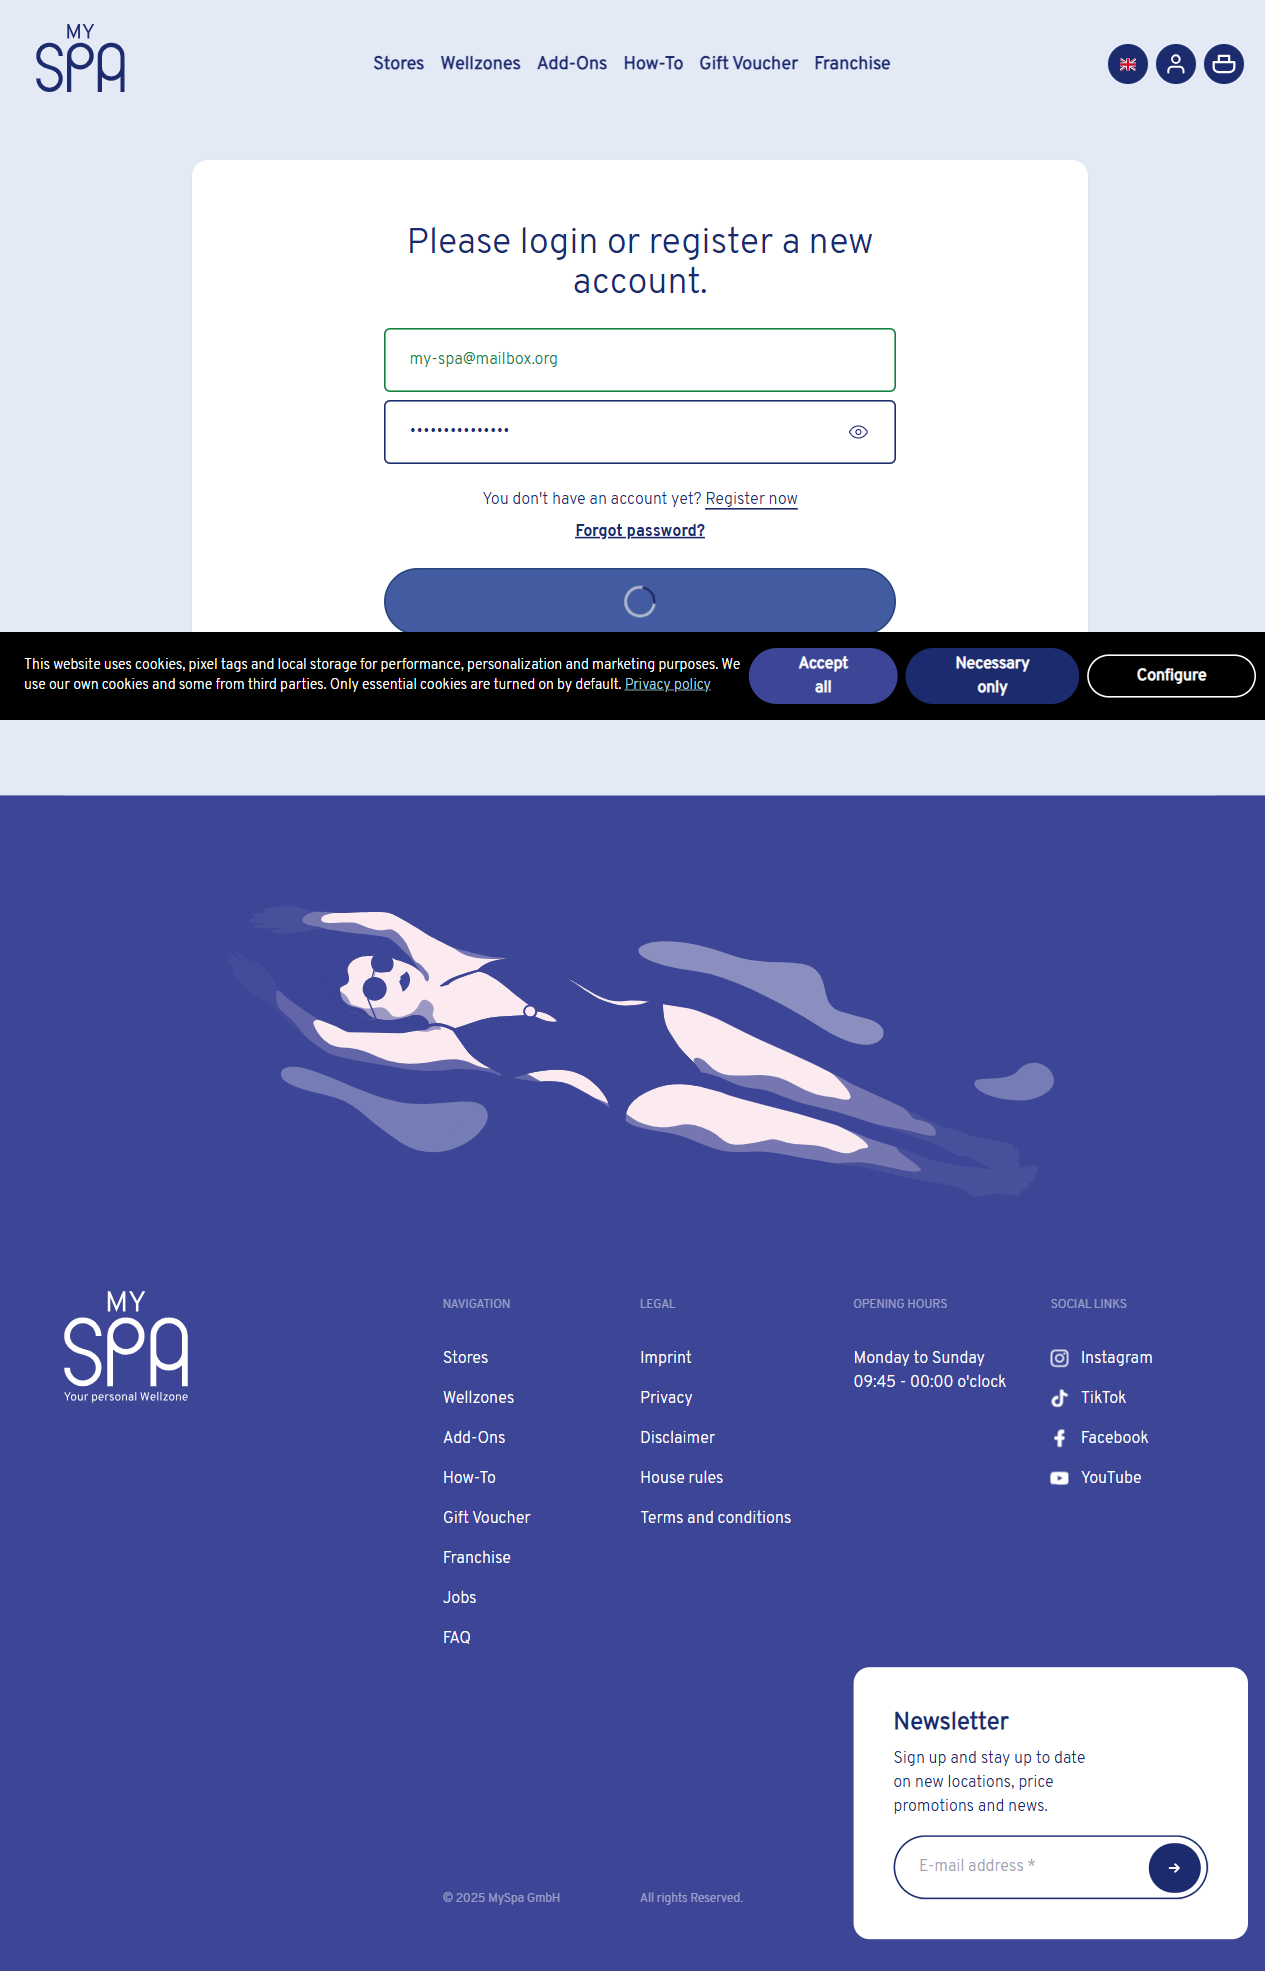
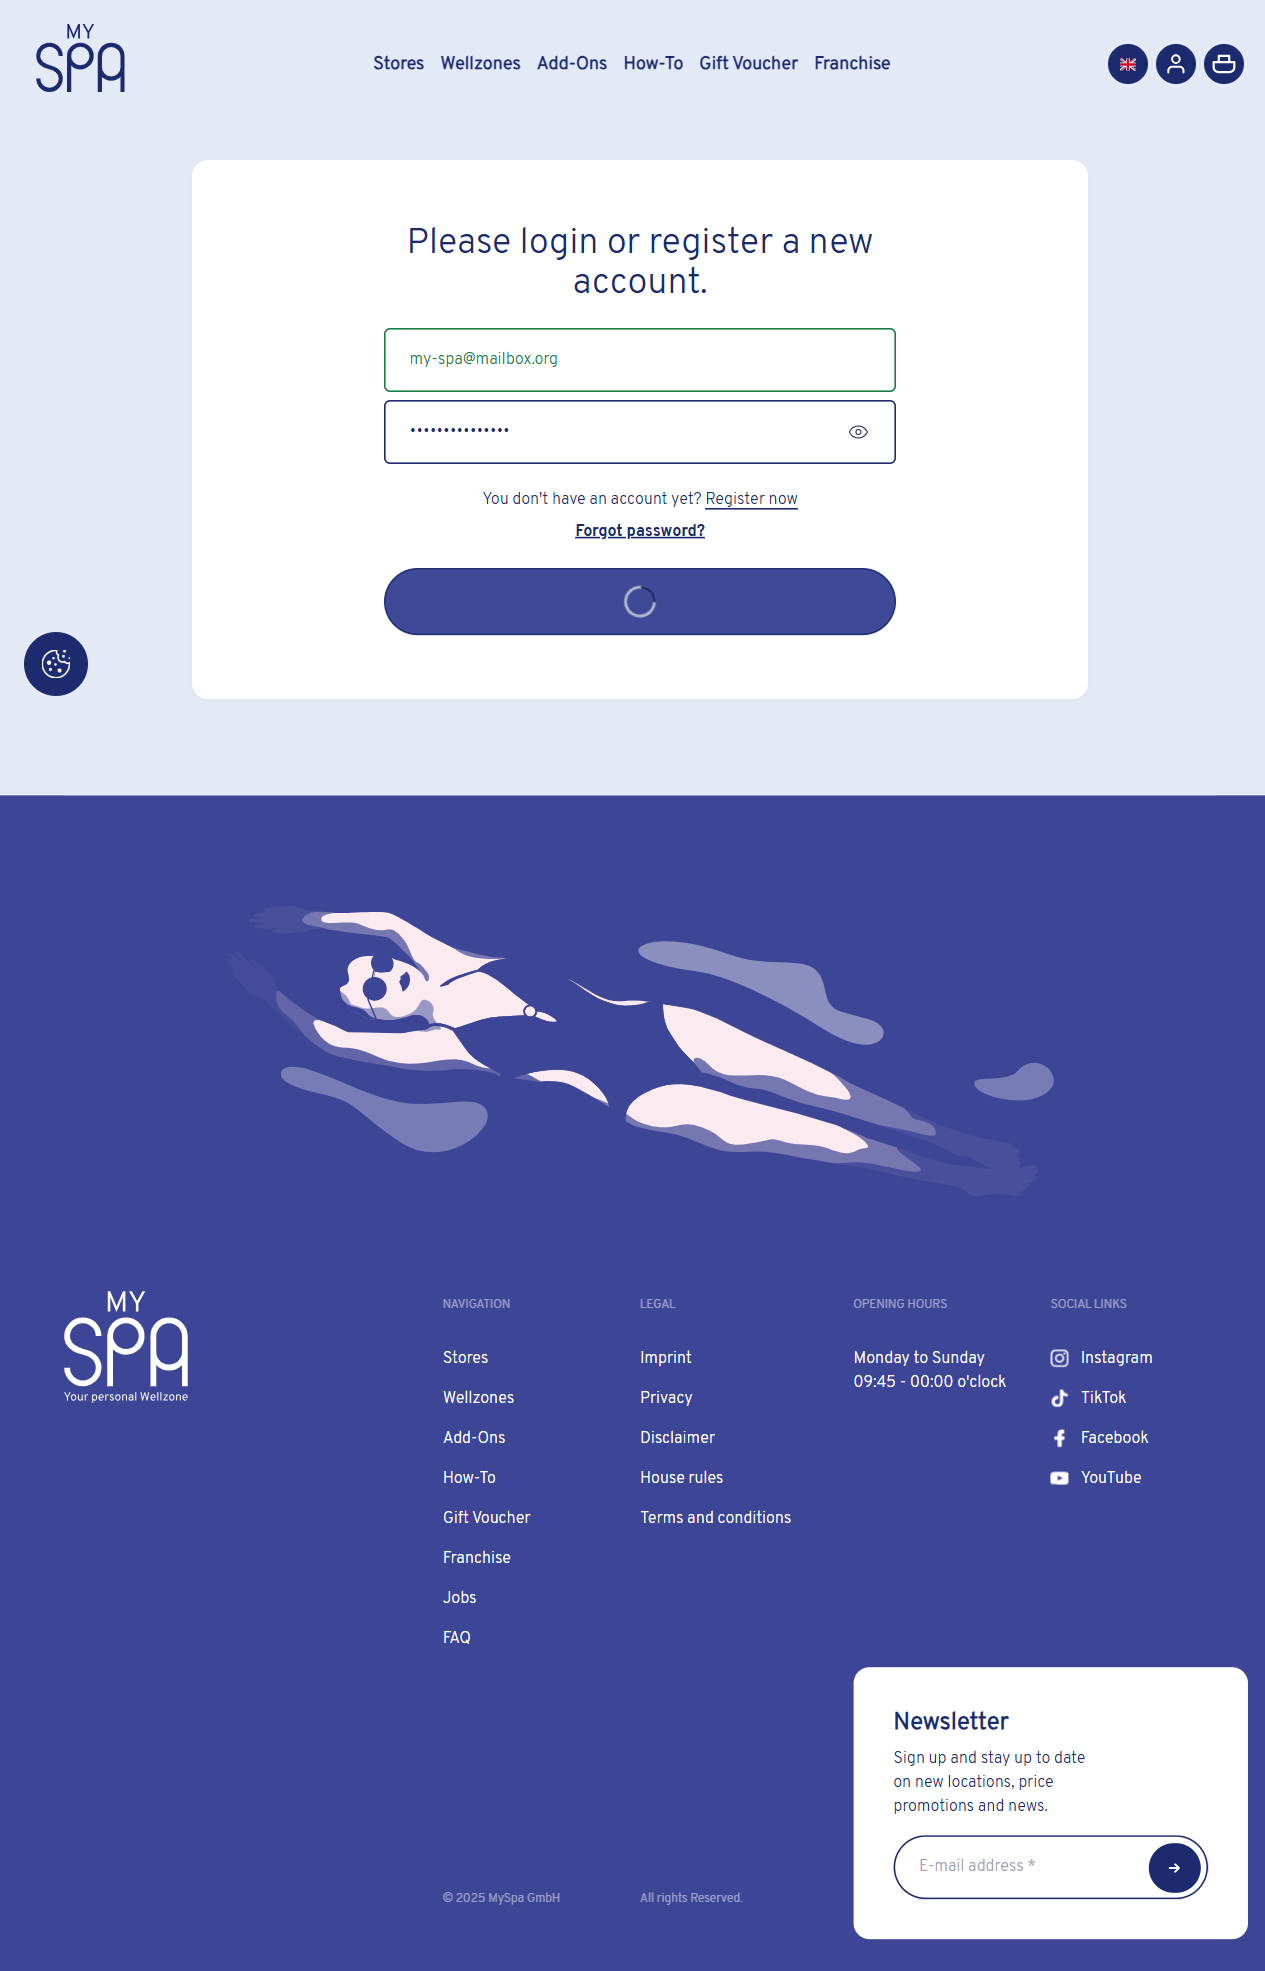
test

Changed region(s): [[0.0, 0.3095, 1.0, 0.3714]]

diff --git a/tests/setup/auth.setup.ts b/tests/setup/auth.setup.ts
@@ -13,8 +13,9 @@ setup("Login and save storage state", async ({ page, context }) => {
   await page.goto("/login");
 
   await header.languageSwitcher.selectLanguage("English");
+  await header.acceptCookiesIfVisible();
   await header.accountManager.goToLogin();
-  await page.waitForTimeout(30000);
+  // await page.waitForTimeout(30000);
   await header.accountManager.login.login(user.email, user.password);
   await page.screenshot({ path: "debug-after-login.png", fullPage: true });
 
